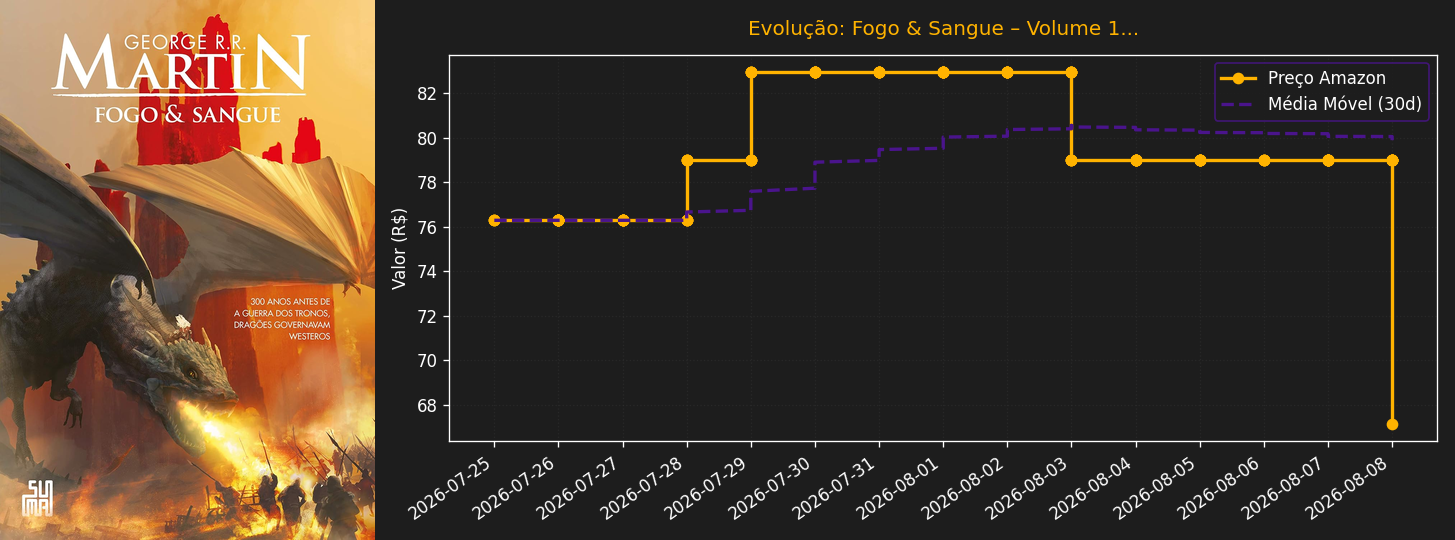
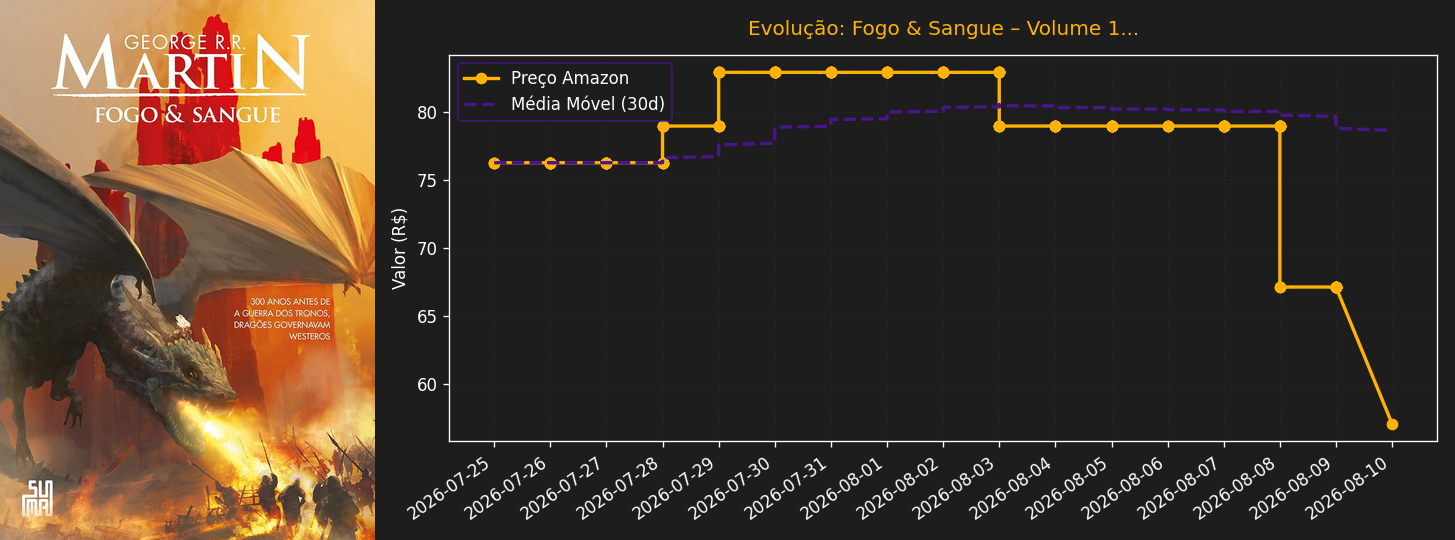
🤖 Bot: Atualização do histórico, portal de ofertas e assets [skip ci]

diff --git a/index.html b/index.html
@@ -5,7 +5,7 @@
     <meta name="viewport" content="width=device-width, initial-scale=1.0">
     <title>Bardo das Promoções | Curadoria de Livros</title>
     <meta name="description" content="Rastreamento matemático de preços de livros de fantasia e sci-fi na Amazon.">
-    <script type="application/ld+json">{"@context": "[https://schema.org](https://schema.org)", "@type": "ItemList", "name": "Promoções Ativas de Fantasia", "itemListElement": [{"@type": "ListItem", "position": 1, "item": {"@type": "Product", "name": "Box Ficção Completa de Edgar Allan Poe", "url": "https://link.amazon/B0bxqDHXJ", "offers": {"@type": "Offer", "priceCurrency": "BRL", "price": 279.9, "availability": "[https://schema.org/InStock](https://schema.org/InStock)"}}}, {"@type": "ListItem", "position": 2, "item": {"@type": "Product", "name": "O sacrifício", "url": "https://link.amazon/B05C027gt", "offers": {"@type": "Offer", "priceCurrency": "BRL", "price": 63.78, "availability": "[https://schema.org/InStock](https://schema.org/InStock)"}}}, {"@type": "ListItem", "position": 3, "item": {"@type": "Product", "name": "A cabeça do santo", "url": "https://link.amazon/B07BZ9Phr", "offers": {"@type": "Offer", "priceCurrency": "BRL", "price": 51.69, "availability": "[https://schema.org/InStock](https://schema.org/InStock)"}}}, {"@type": "ListItem", "position": 4, "item": {"@type": "Product", "name": "A Biblioteca da Meia-Noite", "url": "https://link.amazon/B0ahQKnZG", "offers": {"@type": "Offer", "priceCurrency": "BRL", "price": 40.07, "availability": "[https://schema.org/InStock](https://schema.org/InStock)"}}}, {"@type": "ListItem", "position": 5, "item": {"@type": "Product", "name": "O Hobbit + pôster", "url": "https://link.amazon/B05Sr7Nr7", "offers": {"@type": "Offer", "priceCurrency": "BRL", "price": 43.87, "availability": "[https://schema.org/InStock](https://schema.org/InStock)"}}}, {"@type": "ListItem", "position": 6, "item": {"@type": "Product", "name": "A Ascensão do Dragão", "url": "https://link.amazon/B04OFbHZF", "offers": {"@type": "Offer", "priceCurrency": "BRL", "price": 118.36, "availability": "[https://schema.org/InStock](https://schema.org/InStock)"}}}, {"@type": "ListItem", "position": 7, "item": {"@type": "Product", "name": "O mundo de gelo e fogo", "url": "https://link.amazon/B0bOFsgQ9", "offers": {"@type": "Offer", "priceCurrency": "BRL", "price": 135.28, "availability": "[https://schema.org/InStock](https://schema.org/InStock)"}}}, {"@type": "ListItem", "position": 8, "item": {"@type": "Product", "name": "Box Trilogia O Senhor dos Anéis", "url": "https://link.amazon/B0cOS4omj", "offers": {"@type": "Offer", "priceCurrency": "BRL", "price": 220.07, "availability": "[https://schema.org/InStock](https://schema.org/InStock)"}}}, {"@type": "ListItem", "position": 9, "item": {"@type": "Product", "name": "O cavaleiro dos Sete Reinos", "url": "https://link.amazon/B0e2PzSTe", "offers": {"@type": "Offer", "priceCurrency": "BRL", "price": 78.99, "availability": "[https://schema.org/InStock](https://schema.org/InStock)"}}}, {"@type": "ListItem", "position": 10, "item": {"@type": "Product", "name": "Fogo & Sangue – Volume 1", "url": "https://link.amazon/B01CIGwaZ", "offers": {"@type": "Offer", "priceCurrency": "BRL", "price": 67.14, "availability": "[https://schema.org/InStock](https://schema.org/InStock)"}}}, {"@type": "ListItem", "position": 11, "item": {"@type": "Product", "name": "Box Torre negra", "url": "https://link.amazon/B0czAwuOp", "offers": {"@type": "Offer", "priceCurrency": "BRL", "price": 359.41, "availability": "[https://schema.org/InStock](https://schema.org/InStock)"}}}, {"@type": "ListItem", "position": 12, "item": {"@type": "Product", "name": "Os fragmentos de Bovadium", "url": "https://link.amazon/B0fKkmi1R", "offers": {"@type": "Offer", "priceCurrency": "BRL", "price": 37.51, "availability": "[https://schema.org/InStock](https://schema.org/InStock)"}}}, {"@type": "ListItem", "position": 13, "item": {"@type": "Product", "name": "Mistborn: O Império Final: Livro 1 de Mistborn", "url": "https://link.amazon/B0bJ5jTSU", "offers": {"@type": "Offer", "priceCurrency": "BRL", "price": 61.88, "availability": "[https://schema.org/InStock](https://schema.org/InStock)"}}}, {"@type": "ListItem", "position": 14, "item": {"@type": "Product", "name": "A guerra da papoula", "url": "https://link.amazon/B075ASsRo", "offers": {"@type": "Offer", "priceCurrency": "BRL", "price": 59.9, "availability": "[https://schema.org/InStock](https://schema.org/InStock)"}}}, {"@type": "ListItem", "position": 15, "item": {"@type": "Product", "name": "A república do dragão: 2", "url": "https://link.amazon/B05s4V4tS", "offers": {"@type": "Offer", "priceCurrency": "BRL", "price": 57.89, "availability": "[https://schema.org/InStock](https://schema.org/InStock)"}}}, {"@type": "ListItem", "position": 16, "item": {"@type": "Product", "name": "A deusa em chamas: 3", "url": "https://link.amazon/B00tEF0jN", "offers": {"@type": "Offer", "priceCurrency": "BRL", "price": 59.75, "availability": "[https://schema.org/InStock](https://schema.org/InStock)"}}}, {"@type": "ListItem", "position": 17, "item": {"@type": "Product", "name": "O caminho dos reis", "url": "https://link.amazon/B0g8PJdyP", "offers": {"@type": "Offer", "priceCurrency": "BRL", "price": 100.0, "availability": "[https://schema.org/InStock](https://schema.org/InStock)"}}}, {"@type": "ListItem", "position": 18, "item": {"@type": "Product", "name": "Palavras de Radiância", "url": "https://link.amazon/B09bDCyVl", "offers": {"@type": "Offer", "priceCurrency": "BRL", "price": 152.85, "availability": "[https://schema.org/InStock](https://schema.org/InStock)"}}}, {"@type": "ListItem", "position": 19, "item": {"@type": "Product", "name": "Sacramentadora", "url": "https://link.amazon/B0cBFS3o1", "offers": {"@type": "Offer", "priceCurrency": "BRL", "price": 152.85, "availability": "[https://schema.org/InStock](https://schema.org/InStock)"}}}, {"@type": "ListItem", "position": 20, "item": {"@type": "Product", "name": "Ritmo da Guerra", "url": "https://link.amazon/B0f81O992", "offers": {"@type": "Offer", "priceCurrency": "BRL", "price": 148.29, "availability": "[https://schema.org/InStock](https://schema.org/InStock)"}}}, {"@type": "ListItem", "position": 21, "item": {"@type": "Product", "name": "O alquimista", "url": "https://link.amazon/B00bB1BuS", "offers": {"@type": "Offer", "priceCurrency": "BRL", "price": 42.94, "availability": "[https://schema.org/InStock](https://schema.org/InStock)"}}}, {"@type": "ListItem", "position": 22, "item": {"@type": "Product", "name": "O nome do vento", "url": "https://link.amazon/B0h9jyezR", "offers": {"@type": "Offer", "priceCurrency": "BRL", "price": 51.2, "availability": "[https://schema.org/InStock](https://schema.org/InStock)"}}}, {"@type": "ListItem", "position": 23, "item": {"@type": "Product", "name": "A música do silêncio", "url": "https://link.amazon/B0eRR4Vm5", "offers": {"@type": "Offer", "priceCurrency": "BRL", "price": 39.78, "availability": "[https://schema.org/InStock](https://schema.org/InStock)"}}}, {"@type": "ListItem", "position": 24, "item": {"@type": "Product", "name": "O temor do sábio", "url": "https://link.amazon/B0aqYDLFU", "offers": {"@type": "Offer", "priceCurrency": "BRL", "price": 78.99, "availability": "[https://schema.org/InStock](https://schema.org/InStock)"}}}, {"@type": "ListItem", "position": 25, "item": {"@type": "Product", "name": "Box As crônicas de Artur", "url": "https://link.amazon/B01Lo4CLZ", "offers": {"@type": "Offer", "priceCurrency": "BRL", "price": 165.93, "availability": "[https://schema.org/InStock](https://schema.org/InStock)"}}}, {"@type": "ListItem", "position": 26, "item": {"@type": "Product", "name": "Mistborn: O Poço da Ascensão", "url": "https://link.amazon/B0fHxeIhM", "offers": {"@type": "Offer", "priceCurrency": "BRL", "price": 76.64, "availability": "[https://schema.org/InStock](https://schema.org/InStock)"}}}, {"@type": "ListItem", "position": 27, "item": {"@type": "Product", "name": "Mistborn: O Herói das Eras", "url": "https://link.amazon/B09kGQop8", "offers": {"@type": "Offer", "priceCurrency": "BRL", "price": 67.79, "availability": "[https://schema.org/InStock](https://schema.org/InStock)"}}}]}</script>
+    <script type="application/ld+json">{"@context": "[https://schema.org](https://schema.org)", "@type": "ItemList", "name": "Promoções Ativas de Fantasia", "itemListElement": [{"@type": "ListItem", "position": 1, "item": {"@type": "Product", "name": "Box Ficção Completa de Edgar Allan Poe", "url": "https://link.amazon/B0bxqDHXJ", "offers": {"@type": "Offer", "priceCurrency": "BRL", "price": 279.9, "availability": "[https://schema.org/InStock](https://schema.org/InStock)"}}}, {"@type": "ListItem", "position": 2, "item": {"@type": "Product", "name": "O sacrifício", "url": "https://link.amazon/B05C027gt", "offers": {"@type": "Offer", "priceCurrency": "BRL", "price": 63.78, "availability": "[https://schema.org/InStock](https://schema.org/InStock)"}}}, {"@type": "ListItem", "position": 3, "item": {"@type": "Product", "name": "A cabeça do santo", "url": "https://link.amazon/B07BZ9Phr", "offers": {"@type": "Offer", "priceCurrency": "BRL", "price": 52.92, "availability": "[https://schema.org/InStock](https://schema.org/InStock)"}}}, {"@type": "ListItem", "position": 4, "item": {"@type": "Product", "name": "A Biblioteca da Meia-Noite", "url": "https://link.amazon/B0ahQKnZG", "offers": {"@type": "Offer", "priceCurrency": "BRL", "price": 40.07, "availability": "[https://schema.org/InStock](https://schema.org/InStock)"}}}, {"@type": "ListItem", "position": 5, "item": {"@type": "Product", "name": "O Hobbit + pôster", "url": "https://link.amazon/B05Sr7Nr7", "offers": {"@type": "Offer", "priceCurrency": "BRL", "price": 43.87, "availability": "[https://schema.org/InStock](https://schema.org/InStock)"}}}, {"@type": "ListItem", "position": 6, "item": {"@type": "Product", "name": "A Ascensão do Dragão", "url": "https://link.amazon/B04OFbHZF", "offers": {"@type": "Offer", "priceCurrency": "BRL", "price": 118.36, "availability": "[https://schema.org/InStock](https://schema.org/InStock)"}}}, {"@type": "ListItem", "position": 7, "item": {"@type": "Product", "name": "O mundo de gelo e fogo", "url": "https://link.amazon/B0bOFsgQ9", "offers": {"@type": "Offer", "priceCurrency": "BRL", "price": 135.28, "availability": "[https://schema.org/InStock](https://schema.org/InStock)"}}}, {"@type": "ListItem", "position": 8, "item": {"@type": "Product", "name": "Box Trilogia O Senhor dos Anéis", "url": "https://link.amazon/B0cOS4omj", "offers": {"@type": "Offer", "priceCurrency": "BRL", "price": 220.07, "availability": "[https://schema.org/InStock](https://schema.org/InStock)"}}}, {"@type": "ListItem", "position": 9, "item": {"@type": "Product", "name": "O cavaleiro dos Sete Reinos", "url": "https://link.amazon/B0e2PzSTe", "offers": {"@type": "Offer", "priceCurrency": "BRL", "price": 78.99, "availability": "[https://schema.org/InStock](https://schema.org/InStock)"}}}, {"@type": "ListItem", "position": 10, "item": {"@type": "Product", "name": "Fogo & Sangue – Volume 1", "url": "https://link.amazon/B01CIGwaZ", "offers": {"@type": "Offer", "priceCurrency": "BRL", "price": 57.07, "availability": "[https://schema.org/InStock](https://schema.org/InStock)"}}}, {"@type": "ListItem", "position": 11, "item": {"@type": "Product", "name": "Box Torre negra", "url": "https://link.amazon/B0czAwuOp", "offers": {"@type": "Offer", "priceCurrency": "BRL", "price": 359.41, "availability": "[https://schema.org/InStock](https://schema.org/InStock)"}}}, {"@type": "ListItem", "position": 12, "item": {"@type": "Product", "name": "Os fragmentos de Bovadium", "url": "https://link.amazon/B0fKkmi1R", "offers": {"@type": "Offer", "priceCurrency": "BRL", "price": 37.51, "availability": "[https://schema.org/InStock](https://schema.org/InStock)"}}}, {"@type": "ListItem", "position": 13, "item": {"@type": "Product", "name": "Mistborn: O Império Final: Livro 1 de Mistborn", "url": "https://link.amazon/B0bJ5jTSU", "offers": {"@type": "Offer", "priceCurrency": "BRL", "price": 61.88, "availability": "[https://schema.org/InStock](https://schema.org/InStock)"}}}, {"@type": "ListItem", "position": 14, "item": {"@type": "Product", "name": "A guerra da papoula", "url": "https://link.amazon/B075ASsRo", "offers": {"@type": "Offer", "priceCurrency": "BRL", "price": 54.14, "availability": "[https://schema.org/InStock](https://schema.org/InStock)"}}}, {"@type": "ListItem", "position": 15, "item": {"@type": "Product", "name": "A república do dragão: 2", "url": "https://link.amazon/B05s4V4tS", "offers": {"@type": "Offer", "priceCurrency": "BRL", "price": 57.89, "availability": "[https://schema.org/InStock](https://schema.org/InStock)"}}}, {"@type": "ListItem", "position": 16, "item": {"@type": "Product", "name": "A deusa em chamas: 3", "url": "https://link.amazon/B00tEF0jN", "offers": {"@type": "Offer", "priceCurrency": "BRL", "price": 59.75, "availability": "[https://schema.org/InStock](https://schema.org/InStock)"}}}, {"@type": "ListItem", "position": 17, "item": {"@type": "Product", "name": "O caminho dos reis", "url": "https://link.amazon/B0g8PJdyP", "offers": {"@type": "Offer", "priceCurrency": "BRL", "price": 100.0, "availability": "[https://schema.org/InStock](https://schema.org/InStock)"}}}, {"@type": "ListItem", "position": 18, "item": {"@type": "Product", "name": "Palavras de Radiância", "url": "https://link.amazon/B09bDCyVl", "offers": {"@type": "Offer", "priceCurrency": "BRL", "price": 149.9, "availability": "[https://schema.org/InStock](https://schema.org/InStock)"}}}, {"@type": "ListItem", "position": 19, "item": {"@type": "Product", "name": "Sacramentadora", "url": "https://link.amazon/B0cBFS3o1", "offers": {"@type": "Offer", "priceCurrency": "BRL", "price": 152.85, "availability": "[https://schema.org/InStock](https://schema.org/InStock)"}}}, {"@type": "ListItem", "position": 20, "item": {"@type": "Product", "name": "Ritmo da Guerra", "url": "https://link.amazon/B0f81O992", "offers": {"@type": "Offer", "priceCurrency": "BRL", "price": 148.29, "availability": "[https://schema.org/InStock](https://schema.org/InStock)"}}}, {"@type": "ListItem", "position": 21, "item": {"@type": "Product", "name": "O alquimista", "url": "https://link.amazon/B00bB1BuS", "offers": {"@type": "Offer", "priceCurrency": "BRL", "price": 42.94, "availability": "[https://schema.org/InStock](https://schema.org/InStock)"}}}, {"@type": "ListItem", "position": 22, "item": {"@type": "Product", "name": "O nome do vento", "url": "https://link.amazon/B0h9jyezR", "offers": {"@type": "Offer", "priceCurrency": "BRL", "price": 51.2, "availability": "[https://schema.org/InStock](https://schema.org/InStock)"}}}, {"@type": "ListItem", "position": 23, "item": {"@type": "Product", "name": "A música do silêncio", "url": "https://link.amazon/B0eRR4Vm5", "offers": {"@type": "Offer", "priceCurrency": "BRL", "price": 39.78, "availability": "[https://schema.org/InStock](https://schema.org/InStock)"}}}, {"@type": "ListItem", "position": 24, "item": {"@type": "Product", "name": "O temor do sábio", "url": "https://link.amazon/B0aqYDLFU", "offers": {"@type": "Offer", "priceCurrency": "BRL", "price": 78.99, "availability": "[https://schema.org/InStock](https://schema.org/InStock)"}}}, {"@type": "ListItem", "position": 25, "item": {"@type": "Product", "name": "Box As crônicas de Artur", "url": "https://link.amazon/B01Lo4CLZ", "offers": {"@type": "Offer", "priceCurrency": "BRL", "price": 165.93, "availability": "[https://schema.org/InStock](https://schema.org/InStock)"}}}, {"@type": "ListItem", "position": 26, "item": {"@type": "Product", "name": "Mistborn: O Poço da Ascensão", "url": "https://link.amazon/B0fHxeIhM", "offers": {"@type": "Offer", "priceCurrency": "BRL", "price": 76.64, "availability": "[https://schema.org/InStock](https://schema.org/InStock)"}}}, {"@type": "ListItem", "position": 27, "item": {"@type": "Product", "name": "Mistborn: O Herói das Eras", "url": "https://link.amazon/B09kGQop8", "offers": {"@type": "Offer", "priceCurrency": "BRL", "price": 67.79, "availability": "[https://schema.org/InStock](https://schema.org/InStock)"}}}]}</script>
     <link href="[https://fonts.googleapis.com/css2?family=Inter:wght@300;400;600;800&family=Playfair+Display:ital,wght@0,700;1,700&display=swap](https://fonts.googleapis.com/css2?family=Inter:wght@300;400;600;800&family=Playfair+Display:ital,wght@0,700;1,700&display=swap)" rel="stylesheet">
     <script src="[https://cdn.tailwindcss.com](https://cdn.tailwindcss.com)"></script>
     <script>
@@ -45,7 +45,7 @@
                                 <span class="text-xl font-bold text-bardo-success">R$ 279,90</span>
                             </div>
                             <div class="flex justify-between text-sm">
-                                <span class="text-gray-500">Média (30 dias)</span><span class="text-gray-300">R$ 215,32</span>
+                                <span class="text-gray-500">Média (30 dias)</span><span class="text-gray-300">R$ 215,75</span>
                             </div>
                             <div class="flex justify-between text-sm">
                                 <span class="text-gray-500">Menor Histórico</span><span class="text-gray-300">R$ 161,00</span>
@@ -90,10 +90,10 @@
                         <div class="space-y-3 mb-6">
                             <div class="flex justify-between border-b border-gray-700/50 pb-3">
                                 <span class="text-sm text-gray-400">Preço Agora</span>
-                                <span class="text-xl font-bold text-bardo-success">R$ 51,69</span>
+                                <span class="text-xl font-bold text-bardo-success">R$ 52,92</span>
                             </div>
                             <div class="flex justify-between text-sm">
-                                <span class="text-gray-500">Média (30 dias)</span><span class="text-gray-300">R$ 43,99</span>
+                                <span class="text-gray-500">Média (30 dias)</span><span class="text-gray-300">R$ 44,05</span>
                             </div>
                             <div class="flex justify-between text-sm">
                                 <span class="text-gray-500">Menor Histórico</span><span class="text-gray-300">R$ 33,36</span>
@@ -117,7 +117,7 @@
                                 <span class="text-xl font-bold text-bardo-success">R$ 40,07</span>
                             </div>
                             <div class="flex justify-between text-sm">
-                                <span class="text-gray-500">Média (30 dias)</span><span class="text-gray-300">R$ 41,21</span>
+                                <span class="text-gray-500">Média (30 dias)</span><span class="text-gray-300">R$ 41,20</span>
                             </div>
                             <div class="flex justify-between text-sm">
                                 <span class="text-gray-500">Menor Histórico</span><span class="text-gray-300">R$ 40,07</span>
@@ -165,7 +165,7 @@
                                 <span class="text-xl font-bold text-bardo-success">R$ 118,36</span>
                             </div>
                             <div class="flex justify-between text-sm">
-                                <span class="text-gray-500">Média (30 dias)</span><span class="text-gray-300">R$ 128,85</span>
+                                <span class="text-gray-500">Média (30 dias)</span><span class="text-gray-300">R$ 128,78</span>
                             </div>
                             <div class="flex justify-between text-sm">
                                 <span class="text-gray-500">Menor Histórico</span><span class="text-gray-300">R$ 118,36</span>
@@ -189,7 +189,7 @@
                                 <span class="text-xl font-bold text-bardo-success">R$ 135,28</span>
                             </div>
                             <div class="flex justify-between text-sm">
-                                <span class="text-gray-500">Média (30 dias)</span><span class="text-gray-300">R$ 133,73</span>
+                                <span class="text-gray-500">Média (30 dias)</span><span class="text-gray-300">R$ 133,74</span>
                             </div>
                             <div class="flex justify-between text-sm">
                                 <span class="text-gray-500">Menor Histórico</span><span class="text-gray-300">R$ 128,77</span>
@@ -213,7 +213,7 @@
                                 <span class="text-xl font-bold text-bardo-success">R$ 220,07</span>
                             </div>
                             <div class="flex justify-between text-sm">
-                                <span class="text-gray-500">Média (30 dias)</span><span class="text-gray-300">R$ 207,36</span>
+                                <span class="text-gray-500">Média (30 dias)</span><span class="text-gray-300">R$ 207,44</span>
                             </div>
                             <div class="flex justify-between text-sm">
                                 <span class="text-gray-500">Menor Histórico</span><span class="text-gray-300">R$ 199,40</span>
@@ -258,13 +258,13 @@
                         <div class="space-y-3 mb-6">
                             <div class="flex justify-between border-b border-gray-700/50 pb-3">
                                 <span class="text-sm text-gray-400">Preço Agora</span>
-                                <span class="text-xl font-bold text-bardo-success">R$ 67,14</span>
+                                <span class="text-xl font-bold text-bardo-success">R$ 57,07</span>
                             </div>
                             <div class="flex justify-between text-sm">
-                                <span class="text-gray-500">Média (30 dias)</span><span class="text-gray-300">R$ 78,82</span>
+                                <span class="text-gray-500">Média (30 dias)</span><span class="text-gray-300">R$ 78,67</span>
                             </div>
                             <div class="flex justify-between text-sm">
-                                <span class="text-gray-500">Menor Histórico</span><span class="text-gray-300">R$ 67,14</span>
+                                <span class="text-gray-500">Menor Histórico</span><span class="text-gray-300">R$ 57,07</span>
                             </div>
                         </div>
                     </div>
@@ -285,7 +285,7 @@
                                 <span class="text-xl font-bold text-bardo-success">R$ 359,41</span>
                             </div>
                             <div class="flex justify-between text-sm">
-                                <span class="text-gray-500">Média (30 dias)</span><span class="text-gray-300">R$ 381,96</span>
+                                <span class="text-gray-500">Média (30 dias)</span><span class="text-gray-300">R$ 381,80</span>
                             </div>
                             <div class="flex justify-between text-sm">
                                 <span class="text-gray-500">Menor Histórico</span><span class="text-gray-300">R$ 343,37</span>
@@ -309,7 +309,7 @@
                                 <span class="text-xl font-bold text-bardo-success">R$ 37,51</span>
                             </div>
                             <div class="flex justify-between text-sm">
-                                <span class="text-gray-500">Média (30 dias)</span><span class="text-gray-300">R$ 38,94</span>
+                                <span class="text-gray-500">Média (30 dias)</span><span class="text-gray-300">R$ 38,93</span>
                             </div>
                             <div class="flex justify-between text-sm">
                                 <span class="text-gray-500">Menor Histórico</span><span class="text-gray-300">R$ 37,51</span>
@@ -333,7 +333,7 @@
                                 <span class="text-xl font-bold text-bardo-success">R$ 61,88</span>
                             </div>
                             <div class="flex justify-between text-sm">
-                                <span class="text-gray-500">Média (30 dias)</span><span class="text-gray-300">R$ 66,74</span>
+                                <span class="text-gray-500">Média (30 dias)</span><span class="text-gray-300">R$ 66,70</span>
                             </div>
                             <div class="flex justify-between text-sm">
                                 <span class="text-gray-500">Menor Histórico</span><span class="text-gray-300">R$ 61,88</span>
@@ -344,7 +344,7 @@
                 </div>
             </article>
             <article class="glass-card rounded-xl overflow-hidden relative flex flex-col h-full group">
-                
+                <span class="px-2 py-1 text-xs font-bold text-green-100 bg-green-900/60 border border-green-700 rounded absolute top-3 right-3 shadow-sm z-20">Abaixo da Média</span>
                 <div class="w-full h-48 bg-black/40 flex items-center justify-center overflow-hidden border-b border-gray-800">
                     <img src="https://m.media-amazon.com/images/I/613YunBw8yL._SL1500_.jpg" alt="A guerra da papoula" class="w-full h-full object-cover group-hover:scale-105 transition-transform duration-300">
                 </div>
@@ -354,10 +354,10 @@
                         <div class="space-y-3 mb-6">
                             <div class="flex justify-between border-b border-gray-700/50 pb-3">
                                 <span class="text-sm text-gray-400">Preço Agora</span>
-                                <span class="text-xl font-bold text-bardo-success">R$ 59,90</span>
+                                <span class="text-xl font-bold text-bardo-success">R$ 54,14</span>
                             </div>
                             <div class="flex justify-between text-sm">
-                                <span class="text-gray-500">Média (30 dias)</span><span class="text-gray-300">R$ 55,56</span>
+                                <span class="text-gray-500">Média (30 dias)</span><span class="text-gray-300">R$ 55,55</span>
                             </div>
                             <div class="flex justify-between text-sm">
                                 <span class="text-gray-500">Menor Histórico</span><span class="text-gray-300">R$ 54,14</span>
@@ -429,7 +429,7 @@
                                 <span class="text-xl font-bold text-bardo-success">R$ 100,00</span>
                             </div>
                             <div class="flex justify-between text-sm">
-                                <span class="text-gray-500">Média (30 dias)</span><span class="text-gray-300">R$ 114,22</span>
+                                <span class="text-gray-500">Média (30 dias)</span><span class="text-gray-300">R$ 114,11</span>
                             </div>
                             <div class="flex justify-between text-sm">
                                 <span class="text-gray-500">Menor Histórico</span><span class="text-gray-300">R$ 100,00</span>
@@ -442,7 +442,7 @@
             <article class="glass-card rounded-xl overflow-hidden relative flex flex-col h-full group">
                 <span class="px-2 py-1 text-xs font-bold text-green-100 bg-green-900/60 border border-green-700 rounded absolute top-3 right-3 shadow-sm z-20">Abaixo da Média</span>
                 <div class="w-full h-48 bg-black/40 flex items-center justify-center overflow-hidden border-b border-gray-800">
-                    <img src="https://m.media-amazon.com/images/I/91yCf2XXZjL._SL1500_.jpg" alt="Palavras de Radiância" class="w-full h-full object-cover group-hover:scale-105 transition-transform duration-300">
+                    <img src="assets/banner_palavras_de_radiancia.png" alt="Palavras de Radiância" class="w-full h-full object-cover group-hover:scale-105 transition-transform duration-300">
                 </div>
                 <div class="p-6 flex-grow flex flex-col justify-between">
                     <div>
@@ -450,13 +450,13 @@
                         <div class="space-y-3 mb-6">
                             <div class="flex justify-between border-b border-gray-700/50 pb-3">
                                 <span class="text-sm text-gray-400">Preço Agora</span>
-                                <span class="text-xl font-bold text-bardo-success">R$ 152,85</span>
+                                <span class="text-xl font-bold text-bardo-success">R$ 149,90</span>
                             </div>
                             <div class="flex justify-between text-sm">
-                                <span class="text-gray-500">Média (30 dias)</span><span class="text-gray-300">R$ 154,23</span>
+                                <span class="text-gray-500">Média (30 dias)</span><span class="text-gray-300">R$ 154,20</span>
                             </div>
                             <div class="flex justify-between text-sm">
-                                <span class="text-gray-500">Menor Histórico</span><span class="text-gray-300">R$ 152,85</span>
+                                <span class="text-gray-500">Menor Histórico</span><span class="text-gray-300">R$ 149,90</span>
                             </div>
                         </div>
                     </div>
@@ -501,7 +501,7 @@
                                 <span class="text-xl font-bold text-bardo-success">R$ 148,29</span>
                             </div>
                             <div class="flex justify-between text-sm">
-                                <span class="text-gray-500">Média (30 dias)</span><span class="text-gray-300">R$ 144,61</span>
+                                <span class="text-gray-500">Média (30 dias)</span><span class="text-gray-300">R$ 144,64</span>
                             </div>
                             <div class="flex justify-between text-sm">
                                 <span class="text-gray-500">Menor Histórico</span><span class="text-gray-300">R$ 129,73</span>
@@ -549,7 +549,7 @@
                                 <span class="text-xl font-bold text-bardo-success">R$ 51,20</span>
                             </div>
                             <div class="flex justify-between text-sm">
-                                <span class="text-gray-500">Média (30 dias)</span><span class="text-gray-300">R$ 52,70</span>
+                                <span class="text-gray-500">Média (30 dias)</span><span class="text-gray-300">R$ 52,69</span>
                             </div>
                             <div class="flex justify-between text-sm">
                                 <span class="text-gray-500">Menor Histórico</span><span class="text-gray-300">R$ 51,20</span>
@@ -573,7 +573,7 @@
                                 <span class="text-xl font-bold text-bardo-success">R$ 39,78</span>
                             </div>
                             <div class="flex justify-between text-sm">
-                                <span class="text-gray-500">Média (30 dias)</span><span class="text-gray-300">R$ 40,25</span>
+                                <span class="text-gray-500">Média (30 dias)</span><span class="text-gray-300">R$ 40,24</span>
                             </div>
                             <div class="flex justify-between text-sm">
                                 <span class="text-gray-500">Menor Histórico</span><span class="text-gray-300">R$ 39,78</span>
@@ -645,7 +645,7 @@
                                 <span class="text-xl font-bold text-bardo-success">R$ 76,64</span>
                             </div>
                             <div class="flex justify-between text-sm">
-                                <span class="text-gray-500">Média (30 dias)</span><span class="text-gray-300">R$ 78,58</span>
+                                <span class="text-gray-500">Média (30 dias)</span><span class="text-gray-300">R$ 78,56</span>
                             </div>
                             <div class="flex justify-between text-sm">
                                 <span class="text-gray-500">Menor Histórico</span><span class="text-gray-300">R$ 76,64</span>
@@ -669,7 +669,7 @@
                                 <span class="text-xl font-bold text-bardo-success">R$ 67,79</span>
                             </div>
                             <div class="flex justify-between text-sm">
-                                <span class="text-gray-500">Média (30 dias)</span><span class="text-gray-300">R$ 69,51</span>
+                                <span class="text-gray-500">Média (30 dias)</span><span class="text-gray-300">R$ 69,49</span>
                             </div>
                             <div class="flex justify-between text-sm">
                                 <span class="text-gray-500">Menor Histórico</span><span class="text-gray-300">R$ 67,79</span>
